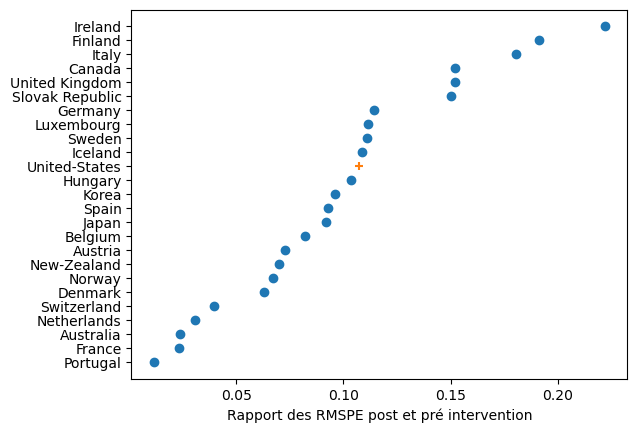
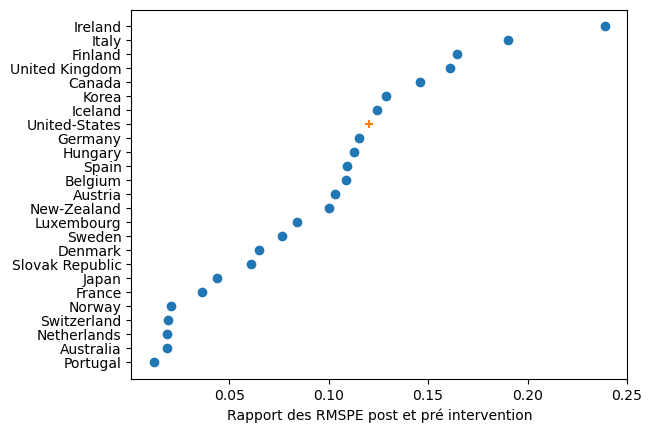
ajout des options pays +plot général

diff --git a/SCM_propre_try.py b/SCM_propre_try.py
@@ -161,11 +161,11 @@ prob = cvx.Problem(cvx.Minimize(cost), constraints)  # On définit le problème
 
 
 # On définit une fonction qui renvoit le "cout" pour l'optimisation de la fonction V :
-def loss_V(V):
+def loss_V(V,pays=('United-states')):
     V_opt.value = np.diag(np.abs(V) ** 1 / 2)
     prob.solve(warm_start=True)
     return (np.linalg.norm(
-        (df_chomage['United-States'].values - df_chomage.drop('United-States', axis=1).values @ x.value)))
+        (df_chomage[pays[0]].values - df_chomage.drop(pays[0], axis=1).values @ x.value)))
 
 
 # Note de performance : utiliser la fonction pnorm plutot que quadform est plus avantageux (de peu, on gagne environ 8 minutes sur le temps d'éxecution total)
@@ -266,7 +266,7 @@ def prep_donnee(pays, date=[2017,2019], placebo=False):
     return (X1, X0)
 
 
-def synth(X1, X0):
+def synth(X1, X0,pays='United-States'):
     """
     Fonction qui automatise le contrôle synthétque sur un pays donnée.
     Il faut que les données soient pré-traitées ! cf. prep_donnee()
@@ -281,7 +281,7 @@ def synth(X1, X0):
 
     contrainte = LinearConstraint(np.ones((1,X0.shape[0])), 1, 1)
     bounds = [(0, 1) for i in range(X0.shape[0])]
-    result = differential_evolution(loss_V, bounds, maxiter=100, constraints=contrainte, polish=False)
+    result = differential_evolution(loss_V,bounds,args=(pays),maxiter=10, constraints=contrainte, polish=False)
 
     # tps2 = clock()
     # print((tps2 - tps1)/60)
@@ -295,7 +295,7 @@ def synth(X1, X0):
     return W, V_opt.value, RMSPE_train
 
 
-def synth_plot(W, pays):
+def synth_plot(W, pays='United-States'):
     """
     Une fois obtenue le vecteur W de pondération, on peut afficher les courbes
     du contrôle synthétique sur le PIB et le chômage.
@@ -310,7 +310,7 @@ def synth_plot(W, pays):
 
     fig1 = plt.figure(0)
 
-    (df_pib['United-States']*100).plot()
+    (df_pib[pays]*100).plot()
     plt.plot(sc_pib.values*100, label="Synthetic Control")
     plt.vlines(84, 0, 100, linestyle='--', color='red', label='Election de Trump')
 
@@ -324,7 +324,7 @@ def synth_plot(W, pays):
         color='0.75')
     plt.legend()
     plt.show()
-    plt.close()
+    #plt.close()
 
 
     sc_chomage = df_chomage.drop([pays,'Variables'], axis=1).values @ W
@@ -345,7 +345,7 @@ def synth_plot(W, pays):
         color='0.75')
     plt.legend()
     plt.show()
-    plt.close()
+    #plt.close()
 
     return(fig1, fig2)
 
@@ -361,7 +361,7 @@ def in_time_placebo(pays):
     date = {t:liste_date([1995,2019])[t:t+13] for t in range(85)}
     for t in date.keys():
         X1, X0 = prep_donnee(pays, date=date[t], placebo=True)
-        W_US, V_US, RMSPE_US = synth(X1, X0)
+        W_US, V_US, RMSPE_US = synth(X1, X0,pays)
         RMSPE_test=np.linalg.norm((df_pib.loc[date[t],pays].to_numpy(dtype = 'float').reshape(13,1)- (df_pib.drop([pays,'Variables'],axis = 1).loc[date[t]].to_numpy(dtype = 'float')@W).reshape(13,1)))/len(date[t])**(1/2)
         RMSPE_cho_test = np.linalg.norm((df_chomage.loc[date[t],pays].to_numpy(dtype = 'float').reshape(13,1)- (df_chomage.drop([pays,'Variables'],axis = 1).loc[date[t]].to_numpy(dtype = 'float')@W).reshape(13,1)))/(len(date[t])**(1/2))
         RMSPE_cho_train = np.linalg.norm((df_chomage.drop(date[t],axis = 0)[pays].to_numpy(dtype = 'float') - df_chomage.drop([pays,'Variables'],axis = 1).loc[df_chomage.index.difference(date[t])].to_numpy(dtype = 'float') @ W))/((len(df_chomage.index)-len(date[t]))**(1/2))
@@ -374,7 +374,7 @@ def in_space_placebo():
     for pays in pays_ocde.keys():
         date = liste_date()
         X1, X0 = prep_donnee(pays)
-        W, V, RMSPE_pre = synth(X1, X0)
+        W, V, RMSPE_pre = synth(X1, X0,pays)
         W_pays[pays]=W.tolist()
         RMSPE_post = np.linalg.norm((df_pib.loc[date, pays].to_numpy(dtype='float').reshape(12, 1) - (df_pib.drop([pays, 'Variables'], axis=1).loc[date].to_numpy(dtype='float') @ W).reshape(12,1))) / len(date) ** (1 / 2)
         RMSPE_cho_test = np.linalg.norm((df_chomage.loc[date,pays].to_numpy(dtype = 'float').reshape(12,1)- (df_chomage.drop([pays,'Variables'],axis = 1).loc[date].to_numpy(dtype = 'float')@W).reshape(12,1)))/(len(date)**(1/2))
@@ -404,15 +404,44 @@ def plot_placebo(result,count_fig,relief,numerous = False):
     plt.xlabel('Rapport des RMSPE post et pré intervention')
 
     return fig
-
+'''
 result_in_time= in_time_placebo('United-States')
 fig1 = plot_placebo(result_in_time,0,'2016-Q1 à 2019-Q1',numerous = True)
 plt.savefig('placebo_in_time',bbox_inches='tight')
 plt.close()
-
+'''
 
 result_in_space,W_pays = in_space_placebo()
 fig2 = plot_placebo(result_in_space,1,'United-States')
 plt.savefig('placebo_in_space',bbox_inches='tight')
 plt.close()
 W_pays.to_csv('W_pays.csv')
+
+def delete_liste(serie):
+    for i in range(len(serie)) :
+        serie[i]= serie[i][0]
+    return(serie)
+W_pays.transform(delete_liste)
+sc = np.zeros((100,25))
+i=0
+for pays in df_pib.drop('Variables',axis=1).columns:
+    sc[:,i] = (df_pib.drop([pays,'Variables'],axis = 1).to_numpy(dtype='float')@W_pays[pays].to_numpy(dtype='float').reshape(24,1)).reshape(100)
+    i+=1
+
+sc = df_pib.drop('Variables',axis = 1).to_numpy(dtype='float') - sc
+fig_comp = plt.figure()
+ax = fig_comp.add_subplot(111)
+for i in range(sc.shape[1]-1):
+    plt.plot(sc[:,i],
+             color = 'gray',
+             alpha=0.7)
+plt.plot(sc[:,24],
+         color='red',
+         label='Etats-Unis')
+
+plt.vlines(84, -1.5, 1.5, linestyle='--', color='red', label='Election de Trump')
+plt.xlabel('Années')
+plt.ylabel('Ecart entre le contrôle synthétique et la vraie séries temporelles')
+plt.legend()
+plt.savefig('Ecart au controle synthétique',bbox_inches='tight')
+
